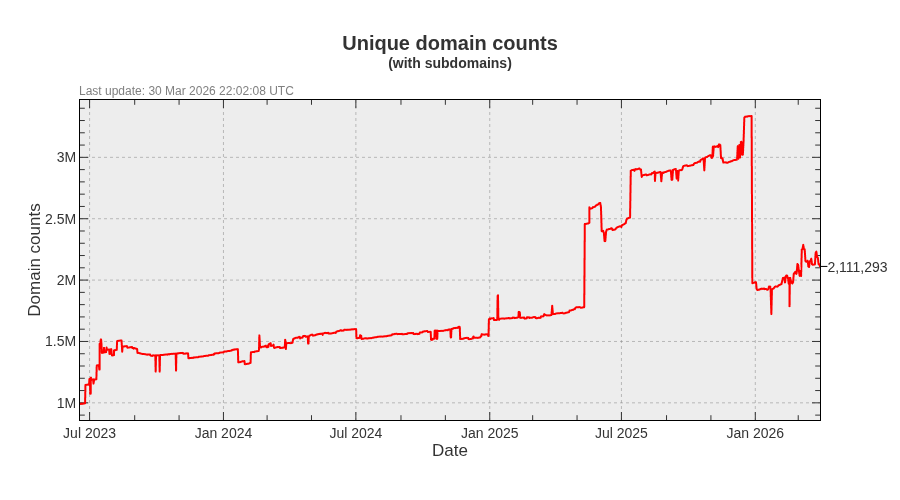
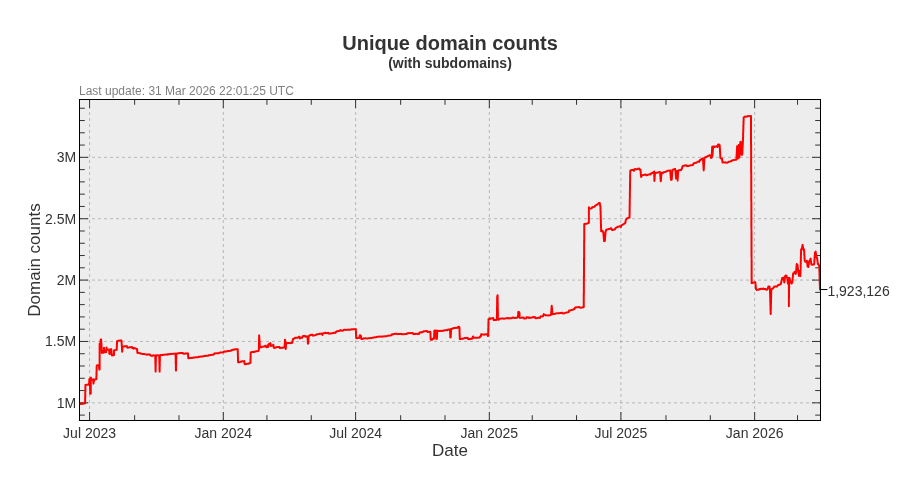
Update pages

diff --git a/README.md b/README.md
@@ -3,22 +3,22 @@ A blocklist file for blocking ads, trackers and malware domains.
 
[1 lines of base64/hex data omitted]
 
-- Unique domains: 2,111,293
-- Without subdomains: 1,452,752
-- Last update: 30 Mar 2026 22:02:08 UTC
-- Version: 2026.03.30.01
+- Unique domains: 1,923,126
+- Without subdomains: 1,273,185
+- Last update: 31 Mar 2026 22:01:25 UTC
+- Version: 2026.03.31.01
 
 
 ## Downloads:
 
 | Format             | Domain count      | Download Link |
 |------------------ | -----------------|-------------|
-| *Adblock Plus*     | 1,452,752 | [bad-hosts-abp](https://dl.cenk.app/bad-hosts/bad-hosts-abp) |
-| *Wildcard domains* | 1,452,752 | [bad-hosts-wildcard](https://dl.cenk.app/bad-hosts/bad-hosts-wildcard) |
-| *dnsmasq*          | 1,452,752 | [bad-hosts-dnsmasq](https://dl.cenk.app/bad-hosts/bad-hosts-dnsmasq) |
-| *hosts*            | 2,111,293 | [hosts](https://dl.cenk.app/bad-hosts/hosts) |
-| *hosts (ipv6)*     | 2,111,293 | [hosts-ipv6](https://dl.cenk.app/bad-hosts/hosts-ipv6) |
-| *Plain domains*    | 2,111,293 | [bad-hosts-domains](https://dl.cenk.app/bad-hosts/bad-hosts-domains) |
+| *Adblock Plus*     | 1,273,185 | [bad-hosts-abp](https://dl.cenk.app/bad-hosts/bad-hosts-abp) |
+| *Wildcard domains* | 1,273,185 | [bad-hosts-wildcard](https://dl.cenk.app/bad-hosts/bad-hosts-wildcard) |
+| *dnsmasq*          | 1,273,185 | [bad-hosts-dnsmasq](https://dl.cenk.app/bad-hosts/bad-hosts-dnsmasq) |
+| *hosts*            | 1,923,126 | [hosts](https://dl.cenk.app/bad-hosts/hosts) |
+| *hosts (ipv6)*     | 1,923,126 | [hosts-ipv6](https://dl.cenk.app/bad-hosts/hosts-ipv6) |
+| *Plain domains*    | 1,923,126 | [bad-hosts-domains](https://dl.cenk.app/bad-hosts/bad-hosts-domains) |
 
 ## Domain count history
 ### With subdomains
